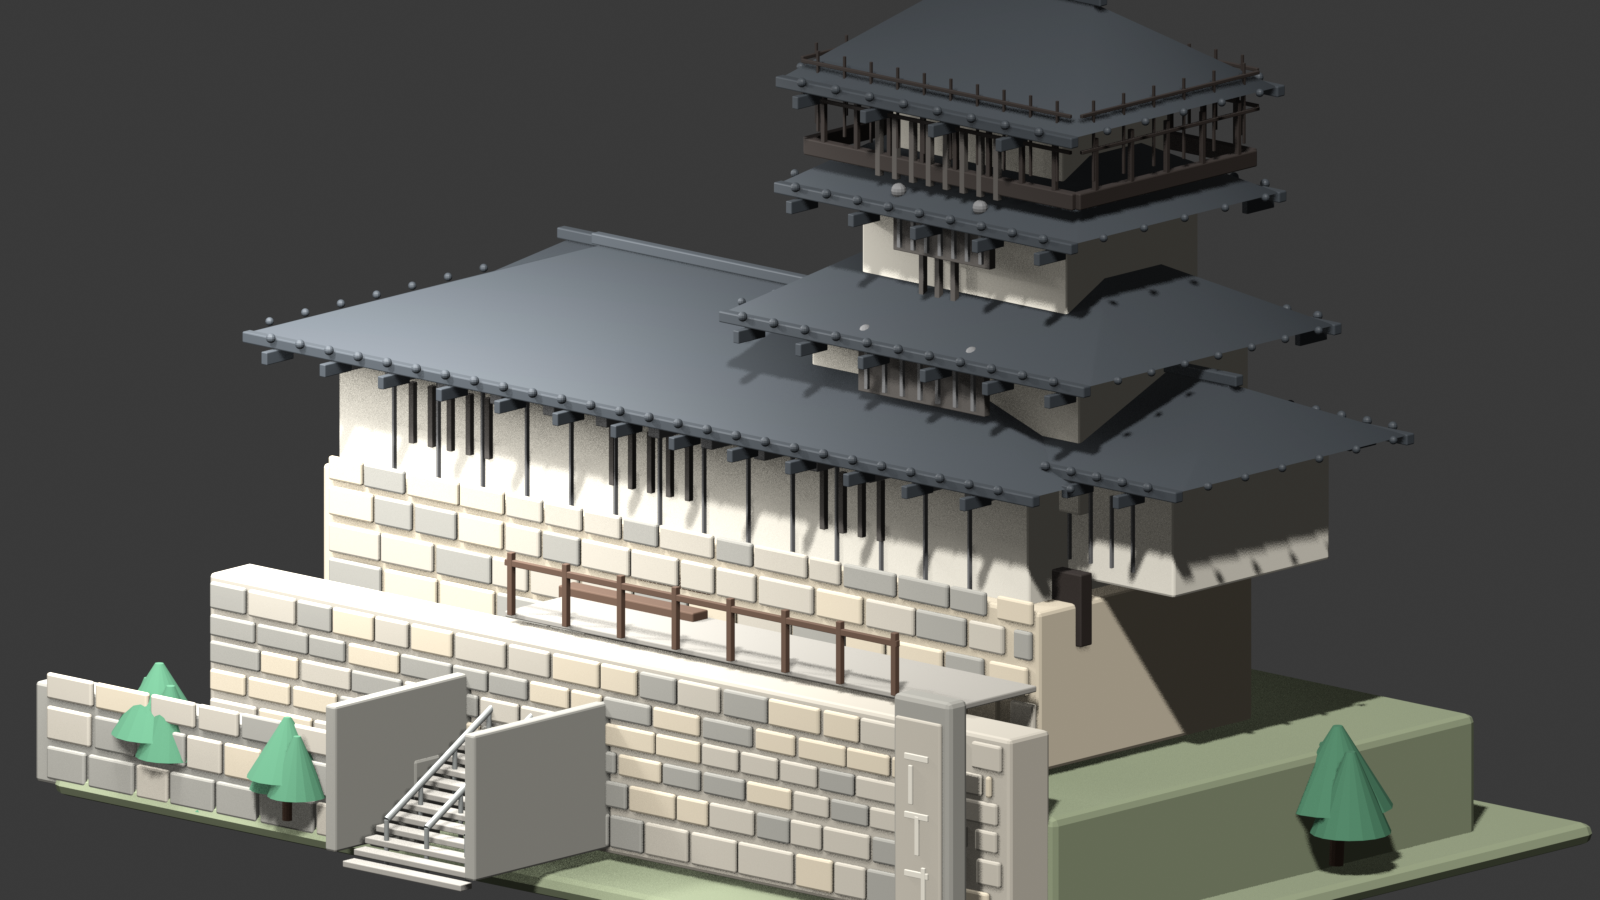
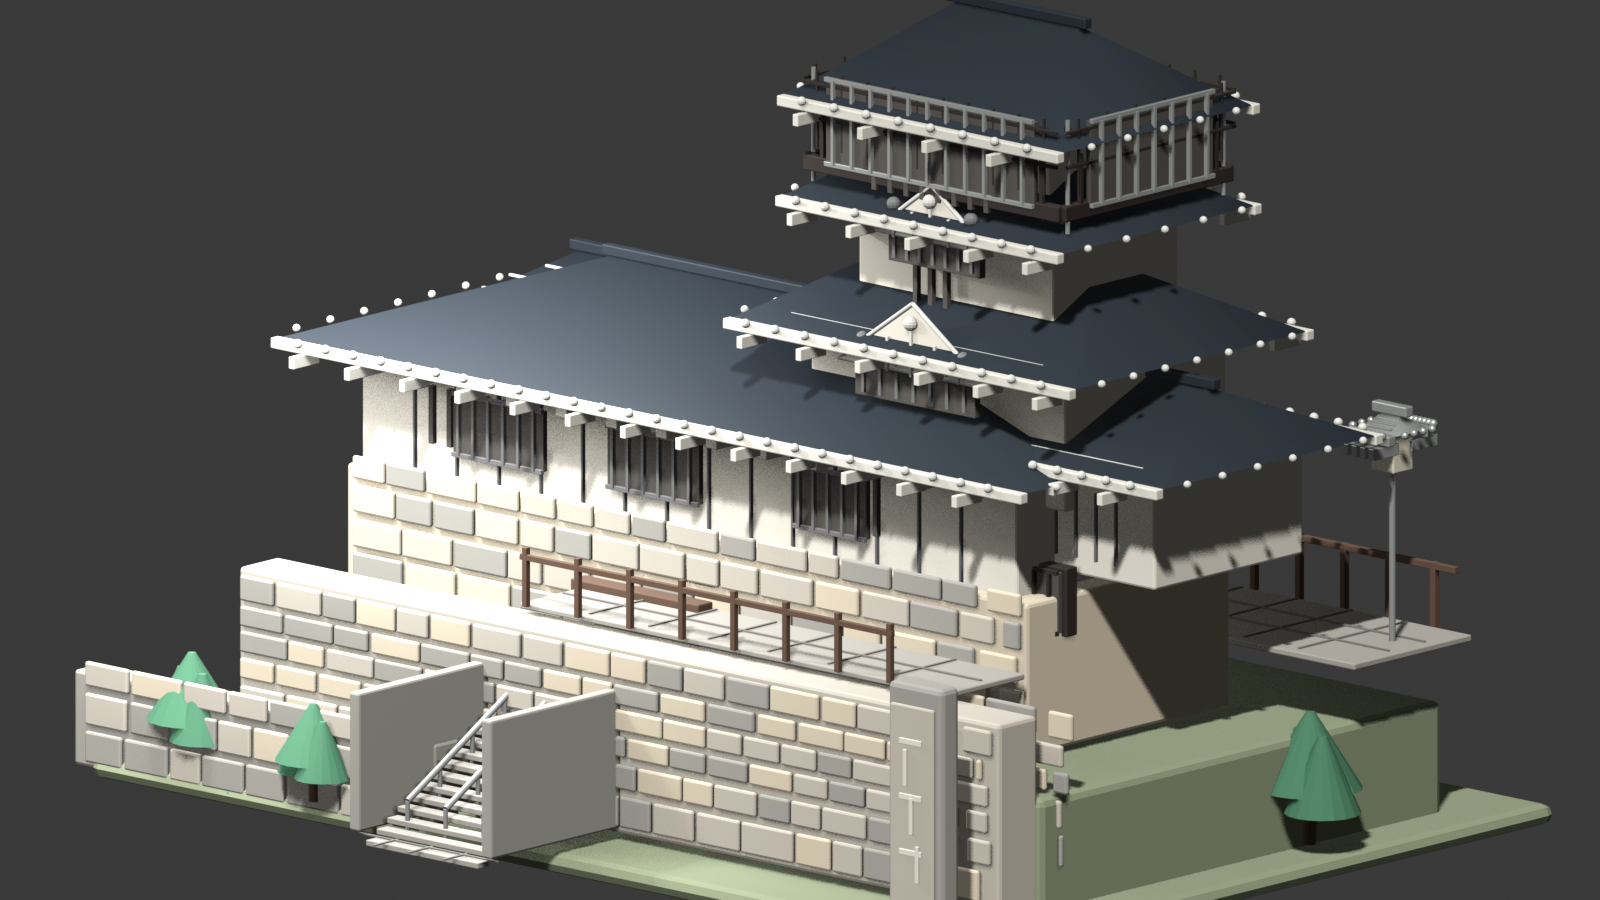
Refine current castle 3D model details

diff --git a/scripts/build_iwasaki_current_blender.py b/scripts/build_iwasaki_current_blender.py
@@ -89,11 +89,13 @@ def cone(name, loc, radius1, radius2, depth, mat=None, vertices=24):
     return obj
 
 
-def hip_roof(name, center, width, depth, height, mat, overhang=0.22, ridge_ratio=0.44):
+def hip_roof(name, center, width, depth, height, mat, overhang=0.22, ridge_ratio=0.44, mat_cap=None, mat_trim=None):
     x = width / 2 + overhang
     y = depth / 2 + overhang
     ridge_x = x * ridge_ratio
     cx, cy, cz = center
+    cap_mat = mat_cap or mat
+    trim_mat = mat_trim or mat
     verts = [
         (cx - x, cy - y, cz),
         (cx + x, cy - y, cz),
@@ -116,24 +118,34 @@ def hip_roof(name, center, width, depth, height, mat, overhang=0.22, ridge_ratio
     obj.data.materials.append(mat)
     obj.modifiers.new("roof_weighted_normals", "WEIGHTED_NORMAL")
 
-    cube(f"{name}_eave_front", (cx, cy - y - 0.02, cz - 0.03), (width + overhang * 2.15, 0.08, 0.08), mat, 0.01)
-    cube(f"{name}_eave_back", (cx, cy + y + 0.02, cz - 0.03), (width + overhang * 2.15, 0.08, 0.08), mat, 0.01)
+    cube(f"{name}_eave_front", (cx, cy - y - 0.02, cz - 0.03), (width + overhang * 2.15, 0.08, 0.08), trim_mat, 0.01)
+    cube(f"{name}_eave_back", (cx, cy + y + 0.02, cz - 0.03), (width + overhang * 2.15, 0.08, 0.08), trim_mat, 0.01)
     cube(f"{name}_ridge", (cx, cy, cz + height + 0.035), (ridge_x * 2 + 0.18, 0.08, 0.08), mat, 0.01)
 
     tile_count = max(8, int(width / 0.26))
     for i in range(tile_count):
         tx = cx - width * 0.5 + i * width / max(tile_count - 1, 1)
-        sphere(f"{name}_front_tile_bead_{i}", (tx, cy - y - 0.09, cz + 0.015), 0.035, mat, 12)
-        sphere(f"{name}_back_tile_bead_{i}", (tx, cy + y + 0.09, cz + 0.015), 0.035, mat, 12)
+        sphere(f"{name}_front_tile_bead_{i}", (tx, cy - y - 0.09, cz + 0.015), 0.035, cap_mat, 12)
+        sphere(f"{name}_back_tile_bead_{i}", (tx, cy + y + 0.09, cz + 0.015), 0.035, cap_mat, 12)
         if i % 2 == 0:
-            cube(f"{name}_front_rafter_{i}", (tx, cy - y - 0.02, cz - 0.12), (0.055, 0.28, 0.09), mat, 0.006)
-            cube(f"{name}_back_rafter_{i}", (tx, cy + y + 0.02, cz - 0.12), (0.055, 0.28, 0.09), mat, 0.006)
+            cube(f"{name}_front_rafter_{i}", (tx, cy - y - 0.02, cz - 0.12), (0.055, 0.28, 0.09), trim_mat, 0.006)
+            cube(f"{name}_back_rafter_{i}", (tx, cy + y + 0.02, cz - 0.12), (0.055, 0.28, 0.09), trim_mat, 0.006)
 
     side_count = max(4, int(depth / 0.28))
     for sx in [-1, 1]:
         for j in range(side_count):
             ty = cy - depth * 0.5 + j * depth / max(side_count - 1, 1)
-            sphere(f"{name}_side_tile_bead_{sx}_{j}", (cx + sx * (x + 0.07), ty, cz + 0.015), 0.03, mat, 12)
+            sphere(f"{name}_side_tile_bead_{sx}_{j}", (cx + sx * (x + 0.07), ty, cz + 0.015), 0.03, cap_mat, 12)
+
+    row_count = max(3, int(depth / 0.34))
+    for j in range(row_count):
+        t = (j + 1) / (row_count + 1)
+        front_y = cy - y + t * y
+        back_y = cy + y - t * y
+        z_line = cz + height * t * 0.74
+        span = width * (0.88 - t * 0.18)
+        cube(f"{name}_front_tile_course_{j}", (cx, front_y, z_line + 0.012), (span, 0.022, 0.018), cap_mat, 0.002)
+        cube(f"{name}_back_tile_course_{j}", (cx, back_y, z_line + 0.012), (span, 0.022, 0.018), cap_mat, 0.002)
     return obj
 
 
@@ -229,6 +241,64 @@ def add_decorative_gable(prefix, cx, cy, z, width, mat_edge, mat_shadow):
     sphere(f"{prefix}_crest_right", (cx + width * 0.42, cy - 0.05, z + 0.26), 0.055, mat_edge, 12)
 
 
+def add_triangular_gable(prefix, cx, cy, z, width, height, mat_panel, mat_trim):
+    verts = [
+        (cx - width / 2, cy, z),
+        (cx + width / 2, cy, z),
+        (cx, cy, z + height),
+    ]
+    mesh = bpy.data.meshes.new(f"{prefix}_mesh")
+    mesh.from_pydata(verts, [], [(0, 1, 2)])
+    mesh.update()
+    obj = bpy.data.objects.new(prefix, mesh)
+    bpy.context.collection.objects.link(obj)
+    obj.data.materials.append(mat_panel)
+    obj.modifiers.new("gable_weighted_normals", "WEIGHTED_NORMAL")
+
+    cylinder_between(f"{prefix}_left_trim", verts[0], verts[2], 0.018, mat_trim, 12)
+    cylinder_between(f"{prefix}_right_trim", verts[1], verts[2], 0.018, mat_trim, 12)
+    cylinder_between(f"{prefix}_bottom_trim", verts[0], verts[1], 0.018, mat_trim, 12)
+    for i in range(5):
+        x = cx - width * 0.32 + i * width * 0.16
+        h = height * (1 - abs(x - cx) / (width / 2)) * 0.74
+        cube(f"{prefix}_lattice_{i}", (x, cy - 0.018, z + h * 0.42), (0.022, 0.022, max(0.14, h)), mat_trim, 0.002)
+    sphere(f"{prefix}_round_ornament", (cx, cy - 0.026, z + height * 0.72), 0.055, mat_trim, 12)
+    return obj
+
+
+def add_paving_grid(prefix, cx, cy, z, width, depth, mat_line, x_count, y_count):
+    for i in range(1, x_count):
+        x = cx - width / 2 + width * i / x_count
+        cube(f"{prefix}_grid_x_{i}", (x, cy, z), (0.022, depth, 0.012), mat_line, 0.001)
+    for j in range(1, y_count):
+        y = cy - depth / 2 + depth * j / y_count
+        cube(f"{prefix}_grid_y_{j}", (cx, y, z), (width, 0.022, 0.012), mat_line, 0.001)
+
+
+def add_lattice_panel(prefix, cx, cy, z, width, height, mat_frame, mat_shadow, vertical_count=7):
+    cube(f"{prefix}_shadow", (cx, cy, z), (width, 0.045, height), mat_shadow, 0.004)
+    cube(f"{prefix}_top", (cx, cy - 0.03, z + height / 2), (width, 0.035, 0.035), mat_frame, 0.003)
+    cube(f"{prefix}_bottom", (cx, cy - 0.03, z - height / 2), (width, 0.035, 0.035), mat_frame, 0.003)
+    for i in range(vertical_count):
+        x = cx - width / 2 + (i + 0.5) * width / vertical_count
+        cube(f"{prefix}_bar_{i}", (x, cy - 0.045, z), (0.026, 0.035, height), mat_frame, 0.002)
+
+
+def add_side_lattice_panel(prefix, x, cy, z, depth, height, mat_frame, mat_shadow, vertical_count=6):
+    cube(f"{prefix}_shadow", (x, cy, z), (0.045, depth, height), mat_shadow, 0.004)
+    cube(f"{prefix}_top", (x + 0.03, cy, z + height / 2), (0.035, depth, 0.035), mat_frame, 0.003)
+    cube(f"{prefix}_bottom", (x + 0.03, cy, z - height / 2), (0.035, depth, 0.035), mat_frame, 0.003)
+    for i in range(vertical_count):
+        y = cy - depth / 2 + (i + 0.5) * depth / vertical_count
+        cube(f"{prefix}_bar_{i}", (x + 0.045, y, z), (0.035, 0.026, height), mat_frame, 0.002)
+
+
+def add_site_lamp(prefix, x, y, z, mat_metal, mat_glass):
+    cylinder(f"{prefix}_post", (x, y, z + 0.68), 0.025, 1.36, mat_metal, 12)
+    cube(f"{prefix}_lantern", (x, y, z + 1.43), (0.22, 0.22, 0.28), mat_glass, 0.012)
+    hip_roof(f"{prefix}_cap", (x, y, z + 1.60), 0.30, 0.30, 0.12, mat_metal, 0.04)
+
+
 def look_at(obj, target):
     direction = Vector(target) - obj.location
     obj.rotation_euler = direction.to_track_quat("-Z", "Y").to_euler()
@@ -237,8 +307,10 @@ def look_at(obj, target):
 clear_scene()
 
 mat_plaster = material("warm white plaster", (0.82, 0.78, 0.68, 1.0), 0.82)
-mat_roof = material("dark tiled roof", (0.07, 0.08, 0.09, 1.0), 0.6)
+mat_roof = material("dark blue black tiled roof", (0.035, 0.046, 0.058, 1.0), 0.58)
 mat_roof_edge = material("weathered roof edge", (0.22, 0.22, 0.22, 1.0), 0.62)
+mat_roof_cap = material("pale roof tile caps", (0.73, 0.73, 0.68, 1.0), 0.68)
+mat_eave = material("white eave trim", (0.78, 0.76, 0.68, 1.0), 0.76)
 mat_stone = material("stone wall light", (0.58, 0.54, 0.46, 1.0), 0.86)
 mat_stone2 = material("stone wall warm", (0.70, 0.62, 0.48, 1.0), 0.86)
 mat_stone3 = material("stone wall dark", (0.40, 0.39, 0.35, 1.0), 0.86)
@@ -246,11 +318,12 @@ mat_wood = material("dark timber", (0.16, 0.10, 0.07, 1.0), 0.76)
 mat_blackwood = material("black balcony lattice", (0.05, 0.04, 0.035, 1.0), 0.7)
 mat_ground = material("park earth and grass", (0.30, 0.34, 0.22, 1.0), 0.9)
 mat_path = material("stone stairs", (0.42, 0.40, 0.36, 1.0), 0.84)
+mat_paving_line = material("paving joint", (0.24, 0.23, 0.21, 1.0), 0.9)
 mat_leaf = material("pine green", (0.08, 0.22, 0.13, 1.0), 0.85)
 mat_gold = material("roof ornament gold", (0.95, 0.66, 0.22, 1.0), 0.45, 0.25)
 mat_shadow = material("window shadow", (0.12, 0.11, 0.10, 1.0), 0.72)
 mat_metal = material("brushed steel handrails", (0.54, 0.56, 0.54, 1.0), 0.32, 0.45)
-mat_dark_tile = material("blue black ceramic tile", (0.045, 0.058, 0.07, 1.0), 0.55)
+mat_glass = material("muted lantern glass", (0.74, 0.70, 0.56, 1.0), 0.36)
 
 # Hill and retaining walls.
 cube("soft hill platform", (0, -0.25, 0.08), (9.0, 6.2, 0.16), mat_ground, 0.08)
@@ -259,6 +332,8 @@ cube("front stone retaining mass", (0.2, -2.48, 0.92), (7.6, 0.42, 1.42), mat_st
 cube("left lower stone wall", (-2.9, -3.15, 0.42), (3.6, 0.28, 0.72), mat_stone3, 0.025)
 add_stone_face("front_wall", -2.72, -3.55, 3.85, 0.26, 1.62, [mat_stone, mat_stone2, mat_stone3])
 add_stone_face("lower_left_wall", -3.32, -4.55, -1.25, 0.10, 0.76, [mat_stone, mat_stone2, mat_stone3])
+add_stone_face("right_return_wall", -2.1, 2.9, 4.1, 0.46, 1.55, [mat_stone, mat_stone2, mat_stone3])
+add_paving_grid("lower_stair_landing", -0.5, -4.0, 0.22, 1.38, 0.46, mat_paving_line, 4, 2)
 
 # Main entrance stairs.
 for i in range(18):
@@ -279,54 +354,73 @@ add_stone_face("main_base_front", -1.49, -3.55, 3.05, 1.06, 2.12, [mat_stone, ma
 cube("main plaster wall", (-0.35, -0.35, 2.58), (6.55, 1.94, 0.92), mat_plaster, 0.02)
 cube("entrance shadow", (-0.48, -1.34, 1.45), (0.86, 0.08, 0.76), mat_shadow, 0.01)
 cube("entrance lintel", (-0.48, -1.40, 1.88), (1.05, 0.12, 0.12), mat_wood, 0.01)
-hip_roof("main_long_roof", (-0.35, -0.35, 3.12), 6.9, 2.22, 0.72, mat_roof, 0.28)
+hip_roof("main_long_roof", (-0.35, -0.35, 3.12), 6.9, 2.22, 0.72, mat_roof, 0.28, mat_cap=mat_roof_cap, mat_trim=mat_eave)
 
 for start_x, count in [(-2.9, 5), (-1.0, 5), (1.0, 4)]:
     add_window_bank(f"main_window_{start_x}", start_x, -1.34, 2.66, count, mat_shadow, 0.18)
+add_lattice_panel("main_front_wide_window_left", -2.20, -1.365, 2.64, 0.90, 0.46, mat_roof_edge, mat_shadow, 6)
+add_lattice_panel("main_front_wide_window_center", -0.65, -1.365, 2.64, 0.92, 0.46, mat_roof_edge, mat_shadow, 6)
+add_lattice_panel("main_front_wide_window_right", 1.12, -1.365, 2.64, 0.72, 0.46, mat_roof_edge, mat_shadow, 5)
 
 add_wall_panel_lines("main_front_wall", -0.35, -1.335, 2.58, 6.3, 0.72, mat_roof_edge, 14)
 add_wall_panel_lines("main_back_wall", -0.35, 0.635, 2.56, 5.8, 0.68, mat_roof_edge, 10)
 
 for i in range(13):
-    cube(f"main_under_eave_bracket_{i}", (-3.35 + i * 0.5, -1.46, 2.98), (0.11, 0.34, 0.10), mat_roof_edge, 0.008)
+    cube(f"main_under_eave_bracket_{i}", (-3.35 + i * 0.5, -1.46, 2.98), (0.11, 0.34, 0.10), mat_eave, 0.008)
 
 # Left wing, visible in the current photo.
 cube("left_wing_plaster", (-2.55, 0.65, 2.45), (2.35, 1.55, 0.82), mat_plaster, 0.02)
-hip_roof("left_wing_roof", (-2.55, 0.65, 2.95), 2.62, 1.86, 0.56, mat_roof, 0.24)
+hip_roof("left_wing_roof", (-2.55, 0.65, 2.95), 2.62, 1.86, 0.56, mat_roof, 0.24, mat_cap=mat_roof_cap, mat_trim=mat_eave)
 add_window_bank("left_wing_window", -3.18, -0.15, 2.48, 5, mat_shadow, 0.17)
+add_lattice_panel("left_wing_back_window", -2.55, 1.44, 2.48, 0.86, 0.42, mat_roof_edge, mat_shadow, 5)
 add_wall_panel_lines("left_wing_side_wall", -2.55, -0.15, 2.48, 1.7, 0.62, mat_roof_edge, 5)
 
 # Tower stack and modern observation balcony.
 cube("tower_lower_wall", (1.85, -0.13, 3.32), (2.55, 1.75, 1.02), mat_plaster, 0.02)
-hip_roof("tower_lower_roof", (1.85, -0.13, 3.88), 2.95, 2.08, 0.64, mat_roof, 0.24)
+hip_roof("tower_lower_roof", (1.85, -0.13, 3.88), 2.95, 2.08, 0.64, mat_roof, 0.24, mat_cap=mat_roof_cap, mat_trim=mat_eave)
 add_window_bank("tower_lower_window", 1.42, -1.05, 3.32, 4, mat_shadow, 0.16)
 add_decorative_gable("tower_lower_front", 1.85, -1.23, 3.64, 1.2, mat_roof_edge, mat_shadow)
+add_triangular_gable("tower_lower_front_gable", 1.85, -1.285, 3.72, 1.48, 0.52, mat_plaster, mat_roof_cap)
 
 cube("tower_middle_wall", (1.85, -0.13, 4.34), (1.95, 1.36, 0.82), mat_plaster, 0.018)
-hip_roof("tower_middle_roof", (1.85, -0.13, 4.82), 2.35, 1.68, 0.54, mat_roof, 0.22)
+hip_roof("tower_middle_roof", (1.85, -0.13, 4.82), 2.35, 1.68, 0.54, mat_roof, 0.22, mat_cap=mat_roof_cap, mat_trim=mat_eave)
 add_window_bank("tower_mid_window", 1.52, -0.88, 4.32, 3, mat_shadow, 0.15)
 add_decorative_gable("tower_middle_front", 1.85, -1.02, 4.64, 0.92, mat_roof_edge, mat_shadow)
+add_triangular_gable("tower_middle_front_gable", 1.85, -1.075, 4.68, 1.14, 0.42, mat_plaster, mat_roof_cap)
 
 cube("observation_core", (1.85, -0.13, 5.15), (1.62, 1.08, 0.64), mat_plaster, 0.014)
 add_balcony("observation_deck", 1.85, -0.13, 5.08, 2.55, 1.84, mat_blackwood)
-hip_roof("observation_roof", (1.85, -0.13, 5.58), 2.25, 1.58, 0.66, mat_roof, 0.26)
+hip_roof("observation_roof", (1.85, -0.13, 5.58), 2.25, 1.58, 0.66, mat_roof, 0.26, mat_cap=mat_roof_cap, mat_trim=mat_eave)
 add_window_bank("observation_front_screen", 1.28, -1.07, 5.2, 8, mat_shadow, 0.16)
+add_lattice_panel("observation_front_full_screen", 1.85, -1.075, 5.43, 2.08, 0.64, mat_metal, mat_shadow, 11)
+add_side_lattice_panel("observation_right_full_screen", 3.16, -0.13, 5.43, 1.34, 0.64, mat_metal, mat_shadow, 7)
 
 for x in [1.45, 2.25]:
     cone(f"gold_roof_ornament_{x}", (x, -0.13, 6.12), 0.07, 0.0, 0.24, mat_gold, 16)
+for x, y in [(0.58, -0.98), (3.12, -0.98), (0.58, 0.72), (3.12, 0.72)]:
+    cylinder_between(f"observation_outer_post_{x}_{y}", (x, y, 4.92), (x, y, 5.78), 0.018, mat_metal, 10)
 
 # Side building on the right edge.
 cube("right_side_wall", (3.25, -0.1, 2.72), (1.35, 1.62, 0.78), mat_plaster, 0.02)
-hip_roof("right_side_roof", (3.25, -0.1, 3.22), 1.7, 1.92, 0.48, mat_roof, 0.22)
+hip_roof("right_side_roof", (3.25, -0.1, 3.22), 1.7, 1.92, 0.48, mat_roof, 0.22, mat_cap=mat_roof_cap, mat_trim=mat_eave)
 cube("right_balcony_mass", (2.65, -1.02, 2.15), (1.1, 0.12, 0.52), mat_blackwood, 0.01)
 add_wall_panel_lines("right_side_wall_panel", 3.25, -0.92, 2.72, 1.0, 0.52, mat_roof_edge, 4)
+add_lattice_panel("right_front_dark_lattice", 2.65, -1.105, 2.15, 1.02, 0.46, mat_blackwood, mat_shadow, 7)
 
 # Paved terrace and low timber fence visible around the current museum.
 cube("upper_paved_terrace", (1.1, -2.0, 1.69), (4.3, 0.82, 0.045), mat_path, 0.01)
+add_paving_grid("upper_paved_terrace", 1.1, -2.0, 1.725, 4.18, 0.74, mat_paving_line, 7, 2)
+cube("right_paved_court", (2.65, 1.45, 1.52), (3.4, 1.28, 0.05), mat_path, 0.01)
+add_paving_grid("right_paved_court", 2.65, 1.45, 1.56, 3.28, 1.18, mat_paving_line, 6, 3)
 for i in range(8):
     x = -0.95 + i * 0.52
     cube(f"front_low_fence_post_{i}", (x, -2.45, 1.93), (0.045, 0.045, 0.45), mat_wood, 0.004)
 cube("front_low_fence_top", (0.86, -2.45, 2.08), (3.72, 0.04, 0.045), mat_wood, 0.004)
+for i in range(7):
+    x = 1.25 + i * 0.45
+    cube(f"side_court_fence_post_{i}", (x, 2.12, 1.78), (0.05, 0.05, 0.50), mat_wood, 0.004)
+cube("side_court_fence_top", (2.6, 2.12, 2.0), (3.15, 0.045, 0.05), mat_wood, 0.004)
+add_site_lamp("right_court_lamp", 4.05, 1.55, 1.55, mat_metal, mat_glass)
 
 # Foreground sign stone and planting to anchor the model to the current site.
 cube("iwasaki_sign_stone", (3.85, -3.35, 1.08), (0.54, 0.20, 1.92), mat_stone3, 0.04)
@@ -370,7 +464,7 @@ camera = bpy.context.object
 look_at(camera, (0.05, -0.55, 2.72))
 camera.data.lens = 32
 camera.data.type = "ORTHO"
-camera.data.ortho_scale = 11.2
+camera.data.ortho_scale = 11.8
 bpy.context.scene.camera = camera
 
 world = bpy.context.scene.world or bpy.data.worlds.new("World")

diff --git a/assets/3d/references/reference-notes.md b/assets/3d/references/reference-notes.md
@@ -5,6 +5,7 @@
 - LPの3Dモデルは、現在の岩崎城址公園に建つ城型展望塔を理解するための外観模型。
 - 実測復元や文化財調査図面からの厳密な再現ではない。
 - 写真は大判転載せず、形状観察と出典確認に使う。
+- Google Earthなどの3D表示は、建物の向きや周辺地形を確認する補助に留める。3D形状の抽出、トレース、変換は行わない。
 
 ## 主な参照元
 
@@ -28,6 +29,8 @@
 - 屋根の重なり、軒下の垂木、瓦列の粒感。
 - 上層展望部の張り出し、手すり、縦格子。
 - 正面入口の暗い開口、手すり、標柱。
+- 側面の舗装広場、低い木柵、外灯、側面側の格子。
+- 屋根の白い縁取り、丸瓦、三角の破風風ディテール。
 
 ## 注意
 